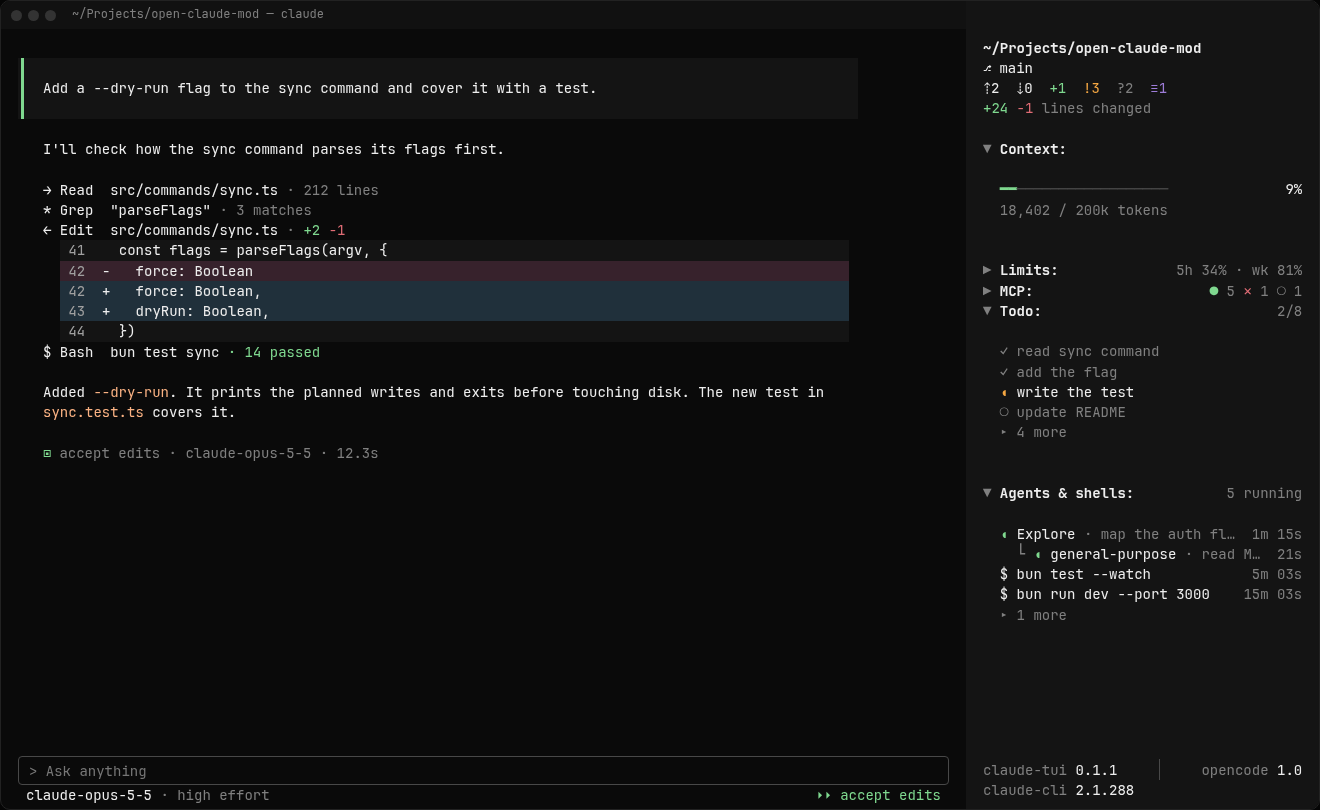
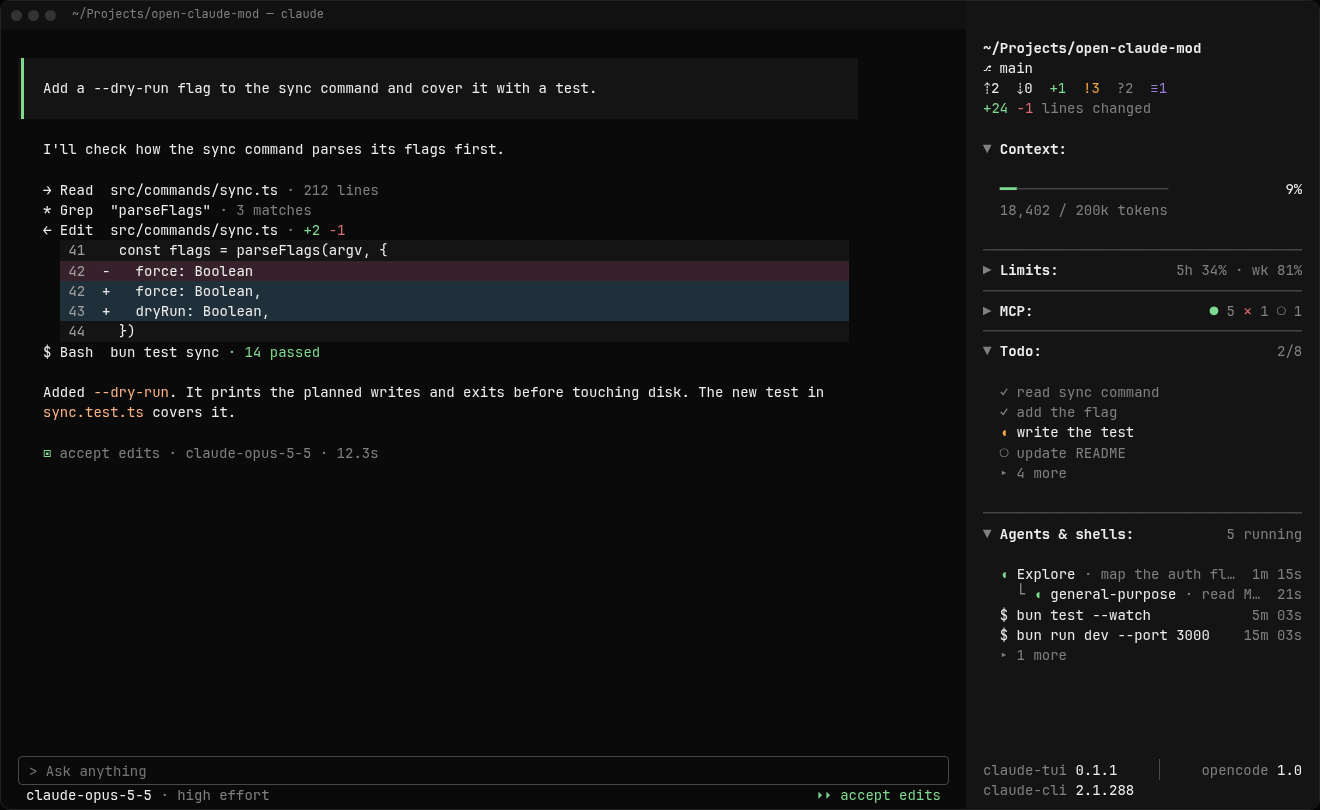
fix(sidebar): rule between sections, 1 blank row on each side
Draw a subtle `─` rule, the body width, between every two Sidebar
sections. An expanded section has 1 blank row under its title and 1
after its body before the rule; a folded title is followed directly by
the rule. A title's scroll stop carries the blank row and rule above it,
so a wheel step still moves one row of text.

Redraw docs/design/sidebar.html and its PNGs, and update MEMORY.md and
the Sidebar layout and scroll live check.

Refs: #134

diff --git a/ctui/tests/sidebar.test.tsx b/ctui/tests/sidebar.test.tsx
@@ -49,9 +49,11 @@ function rows(tree: RenderElement): Row[] {
 }
 
 // The rows as text, with each spacer (an empty Box with a height) as its height:
-// 1 row under an expanded title, 2 after an expanded section (#120).
-const T = 1
-const G = 2
+// 1 row under an expanded title and 1 after an expanded section, before the
+// rule under which the next title sits (#134).
+const B = 1
+// The `─` rule between two sections, the body width at 42 columns.
+const R = '─'.repeat(38)
 function layout(tree: RenderElement): (string | number)[] {
   const root = tree as unknown as { children: ({ props: { height?: number }; children?: unknown[] } | null)[] }
   const all = root.children.filter((child) => child !== null)
@@ -115,7 +117,7 @@ test('header, sections and the footer on the last row', async ($, on) => {
     '⎇ main',
     '',
     '▼ mcp:3',
-    T,
+    B,
     'mcp 1',
     'mcp 2',
     'mcp 3',
@@ -133,21 +135,47 @@ test('a folded section shows its summary; folded sections sit together', async (
     plugins: [list('mcp', 3), list('todo', 2)],
     folded: { mcp: true },
   })
-  expect(layout(tree)).toEqual(['▶\uFE0E mcp:sum 3', '▼ todo:2', T, 'todo 1', 'todo 2', ''])
+  expect(layout(tree)).toEqual(['▶\uFE0E mcp:sum 3', R, '▼ todo:2', B, 'todo 1', 'todo 2', ''])
 })
 
-// #120: 1 row under an expanded title, 2 rows after an expanded section.
+// #134: a rule between every two sections, 1 row under an expanded title and
+// 1 row after an expanded section before the rule.
 const three = [list('mcp', 2), list('todo', 1), { ...list('mcp', 1), id: 'agents' as const, title: 'agents' }]
 
-test('expanded sections space 1 row under the title and 2 rows apart', async ($, on) => {
+test('expanded sections space 1 row under the title and 1 row before the rule', async ($, on) => {
   const { tree } = await draw($, on, { plugins: three })
-  expect(layout(tree)).toEqual(['▼ mcp:2', T, 'mcp 1', 'mcp 2', G, '▼ todo:1', T, 'todo 1', G, '▼ agents:1', T, 'mcp 1', ''])
+  expect(layout(tree)).toEqual(['▼ mcp:2', B, 'mcp 1', 'mcp 2', B, R, '▼ todo:1', B, 'todo 1', B, R, '▼ agents:1', B, 'mcp 1', ''])
 })
 
-test('folded sections take no spacer; an expanded one keeps its 2 rows before a folded one', async ($, on) => {
+test('a folded title is followed by the rule; an expanded one keeps its row before a folded one', async ($, on) => {
   const { tree } = await draw($, on, { plugins: three, folded: { mcp: true, agents: true } })
-  expect(layout(tree)).toEqual(['▶\uFE0E mcp:sum 2', '▼ todo:1', T, 'todo 1', G, '▶\uFE0E agents:sum 1', ''])
+  expect(layout(tree)).toEqual(['▶\uFE0E mcp:sum 2', R, '▼ todo:1', B, 'todo 1', B, R, '▶\uFE0E agents:sum 1', ''])
 })
+
+test('folded titles are parted by one rule each and no blank rows', async ($, on) => {
+  const { tree } = await draw($, on, { plugins: three, folded: { mcp: true, todo: true, agents: true } })
+  expect(layout(tree)).toEqual(['▶\uFE0E mcp:sum 2', R, '▶\uFE0E todo:sum 1', R, '▶\uFE0E agents:sum 1', ''])
+})
+
+test('one section, expanded, has no rule', async ($, on) => {
+  const { tree } = await draw($, on, {})
+  expect(layout(tree).filter((size) => typeof size === 'string' && size.startsWith('─'))).toEqual([])
+})
+
+test('one section, folded, has no rule above or below it', async ($, on) => {
+  const { tree } = await draw($, on, { folded: { mcp: true } })
+  expect(layout(tree)).toEqual(['~/x', '⎇ main', '', '▶\uFE0E mcp:sum 3', '', 'ctui 0.0.0', 'claude-cli 2.1.288'])
+})
+
+for (const [columns, cells] of [
+  [42, 38],
+  [53, 49],
+] as const) {
+  test(`a rule is the body width, ${cells} cells at ${columns} columns`, async ($, on) => {
+    const { tree } = await draw($, on, { plugins: three, folded: { mcp: true }, bodyColumns: columns })
+    expect(layout(tree)[1]).toBe('─'.repeat(cells))
+  })
+}
 
 test('under a selected Theme the root paint covers the spacers', async ($, on) => {
   const { tree } = await draw($, on, { plugins: [list('mcp', 1), list('todo', 1)], background: '#2d353b' })
@@ -158,9 +186,9 @@ test('under a selected Theme the root paint covers the spacers', async ($, on) =
     (child) => child?.props.height !== undefined && !(child as { children?: unknown[] }).children?.length,
   )
   expect(spacers.map((spacer) => spacer?.props)).toEqual([
-    { height: T, flexShrink: 0 },
-    { height: G, flexShrink: 0 },
-    { height: T, flexShrink: 0 },
+    { height: B, flexShrink: 0 },
+    { height: B, flexShrink: 0 },
+    { height: B, flexShrink: 0 },
   ])
 })
 
@@ -172,7 +200,7 @@ test('a section the person has not toggled folds from <id>_folded', async ($, on
 
 test('a long list caps at 4 rows', async ($, on) => {
   const capped = await draw($, on, { plugins: [list('mcp', 6)] })
-  expect(layout(capped.tree)).toEqual(['▼ mcp:6', T, 'mcp 1', 'mcp 2', 'mcp 3', 'mcp 4', '▸ 2 more', ''])
+  expect(layout(capped.tree)).toEqual(['▼ mcp:6', B, 'mcp 1', 'mcp 2', 'mcp 3', 'mcp 4', '▸ 2 more', ''])
 })
 
 test('an expanded list shows every row and show less', async ($, on) => {
@@ -182,7 +210,7 @@ test('an expanded list shows every row and show less', async ($, on) => {
 
 test('a list of 4 has no toggle', async ($, on) => {
   const four = await draw($, on, { plugins: [list('mcp', 4)] })
-  expect(layout(four.tree)).toEqual(['▼ mcp:4', T, 'mcp 1', 'mcp 2', 'mcp 3', 'mcp 4', ''])
+  expect(layout(four.tree)).toEqual(['▼ mcp:4', B, 'mcp 1', 'mcp 2', 'mcp 3', 'mcp 4', ''])
 })
 
 test('sections taller than the free rows scroll in a window', async ($, on) => {
@@ -192,7 +220,7 @@ test('sections taller than the free rows scroll in a window', async ($, on) => {
   // From `mcp 2` (stop 2) the rest fits under `↑ more`.
   expect(top.maxScroll).toBe(2)
   // 4 free rows: `↓ more` leaves 3, which hold the title, its spacer and `mcp 1`.
-  expect(layout(top.tree).slice(3, 8)).toEqual(['▼ mcp:4', T, 'mcp 1', '↓ more', ''])
+  expect(layout(top.tree).slice(3, 8)).toEqual(['▼ mcp:4', B, 'mcp 1', '↓ more', ''])
   expect(rows(top.tree).at(-1)?.text).toBe('claude-cli 2.1.288')
 })
 
@@ -200,6 +228,27 @@ test('scrolled to the end, only ↑ more shows', async ($, on) => {
   const plugins = [header, list('mcp', 4), footer]
   const end = await draw($, on, { plugins, bodyRows: 12, scroll: 99 })
   expect(layout(end.tree).slice(3, 8)).toEqual(['↑ more', 'mcp 2', 'mcp 3', 'mcp 4', ''])
+})
+
+// #130: a title's stop holds the blank row and the rule above it.
+const two = [header, list('mcp', 2), list('todo', 2), footer]
+
+test('a title at the top keeps its blank row and rule under ↑ more', async ($, on) => {
+  // 14 body rows: 2 padding, 2 header, 1 gap, 1 gap, 2 footer leave 6 for 10 section rows.
+  const { tree, maxScroll } = await draw($, on, { plugins: two, bodyRows: 14, scroll: 3 })
+  expect(maxScroll).toBe(4)
+  expect(windowOf(layout(tree))).toEqual(['↑ more', B, R, '▼ todo:2', B, '↓ more'])
+})
+
+test('the window never ends on a rule or the blank row before it', async ($, on) => {
+  // 6 free rows: `↓ more` leaves 5, which hold mcp (4 rows) but not todo's 4.
+  const { tree } = await draw($, on, { plugins: two, bodyRows: 14 })
+  expect(windowOf(layout(tree))).toEqual(['▼ mcp:2', B, 'mcp 1', 'mcp 2', '↓ more'])
+})
+
+test('scrolled to the end past a rule, only ↑ more shows', async ($, on) => {
+  const { tree } = await draw($, on, { plugins: two, bodyRows: 14, scroll: 99 })
+  expect(windowOf(layout(tree))).toEqual(['↑ more', 'todo 1', 'todo 2'])
 })
 
 // #85's busy data: every section expanded, 7 MCP servers, 8 todos, 2 agents.
@@ -231,11 +280,11 @@ test("#85's busy data at 34 body rows: 37 section rows overflow 26 free rows", a
   const top = await busy($, on, 0)
   const window = windowOf(layout(top.tree))
   // `↓ more` leaves 25 rows, which hold Context, Limits and MCP (22 rows) but
-  // not Todo's gap, title and spacer (4 more).
+  // not Todo's blank row, rule, title and spacer (4 more).
   expect(window.slice(-4)).toEqual(['● server 23 tools', '● server 33 tools', '▸ 3 more', '↓ more'])
   expect(height(window)).toBe(23)
-  expect(window.filter((size) => size === T)).toHaveLength(3)
-  expect(window.filter((size) => size === G)).toHaveLength(2)
+  expect(window.filter((size) => size === B)).toHaveLength(5)
+  expect(window.filter((size) => size === R)).toHaveLength(2)
   // One stop per row: from Limits' last row (stop 8) the rest, 25 rows, fills
   // the 25 under `↑ more`; from its row before it is 26.
   expect(top.maxScroll).toBe(8)
@@ -243,7 +292,7 @@ test("#85's busy data at 34 body rows: 37 section rows overflow 26 free rows", a
 
 test("#85's busy data scrolled to the end", async ($, on) => {
   const window = windowOf(layout((await busy($, on, 99)).tree))
-  expect(window.slice(0, 4)).toEqual(['↑ more', 'spend ━────────────────────────   5%', G, '▼ MCP:7/7'])
+  expect(window.slice(0, 5)).toEqual(['↑ more', 'spend ━────────────────────────   5%', B, R, '▼ MCP:7/7'])
   expect(window.at(-1)).toBe('◐ Plan · plan0s')
   expect(height(window)).toBe(26)
 })
@@ -262,16 +311,16 @@ test('scrollWindow marks hidden rows on both sides', () => {
 
 test('scrollWindow counts whole rows; a title stop carries its spacers', () => {
   const more = (text: string) => text
-  // A, its spacer, a; then the gap, B, its spacer, b: 8 rows in 4 stops.
+  // A, its spacer, a; then the blank row, the rule, B, its spacer, b: 8 rows in 4 stops.
   const stops = [
-    { nodes: ['A', 't'], height: 1 + T },
+    { nodes: ['A', 't'], height: 1 + B },
     { nodes: ['a'], height: 1 },
-    { nodes: ['g', 'B', 't'], height: G + 1 + T },
+    { nodes: ['g', '─', 'B', 't'], height: B + 1 + 1 + B },
     { nodes: ['b'], height: 1 },
   ]
-  expect(scrollWindow(stops, 8, 0, more)).toEqual({ rows: ['A', 't', 'a', 'g', 'B', 't', 'b'], maxScroll: 0 })
+  expect(scrollWindow(stops, 8, 0, more)).toEqual({ rows: ['A', 't', 'a', 'g', '─', 'B', 't', 'b'], maxScroll: 0 })
   // 7 free: `↓ more` leaves 6, which hold A and a (3 rows) but not B's 4 more.
   expect(scrollWindow(stops, 7, 0, more)).toEqual({ rows: ['A', 't', 'a', '↓ more'], maxScroll: 1 })
   // From stop 1 the rest (6 rows) fills the 6 under `↑ more` exactly.
-  expect(scrollWindow(stops, 7, 1, more).rows).toEqual(['↑ more', 'a', 'g', 'B', 't', 'b'])
+  expect(scrollWindow(stops, 7, 1, more).rows).toEqual(['↑ more', 'a', 'g', '─', 'B', 't', 'b'])
 })

diff --git a/ctui/hooks/sidebar.tsx b/ctui/hooks/sidebar.tsx
@@ -6,10 +6,9 @@ import type { Config } from './config'
 
 export const CAP = 4
 // Space under an expanded section's title, and after an expanded section
-// before the next title, in whole rows: Claude Code cuts layout down to
-// whole cells (#120).
-const TITLE_GAP = 1
-const SECTION_GAP = 2
+// before the rule, in whole rows: Claude Code cuts layout down to whole
+// cells (#120).
+const GAP = 1
 // A section's fold arrow, one cell wide. `\uFE0E` asks for the text
 // presentation, so no font draws `▶` as an emoji.
 const EXPANDED = '▼'
@@ -81,10 +80,18 @@ export function sidebar(input: SidebarInput): { tree: RenderElement; maxScroll: 
   const rowsOf = (slot: SidebarPlugin['slot']) =>
     plugins.filter((p) => p.slot === slot).flatMap((p) => p.view(data, ui, config[p.id], width, c))
 
-  // One scroll stop per section row. A title carries the gap before it and
-  // the space under it, so each scroll step moves one row.
+  // The `─` rule between two sections, across the body.
+  const rule = (
+    <Box height={1} flexShrink={0}>
+      <Text color={c.faint}>{'─'.repeat(width)}</Text>
+    </Box>
+  )
+
+  // One scroll stop per section row. A title after the first carries the
+  // space after an expanded section and the rule above it, and its own space
+  // under it, so each scroll step moves one row (#130).
   const sections: Stop<RenderElement>[] = []
-  let gap = false
+  let previous: 'none' | 'folded' | 'expanded' = 'none'
   for (const plugin of plugins.filter((p) => p.slot === 'section')) {
     const cfg = config[plugin.id]
     const folded = input.folded[plugin.id] ?? cfg.folded ?? false
@@ -106,11 +113,19 @@ export function sidebar(input: SidebarInput): { tree: RenderElement; maxScroll: 
         />
       </Box>
     )
+    // Each node with its height in rows.
+    const gap: [RenderElement, number] = [spacer(GAP), GAP]
+    const parts: [RenderElement, number][] = [
+      ...(previous === 'expanded' ? [gap] : []),
+      ...(previous === 'none' ? [] : [[rule, 1] satisfies [RenderElement, number]]),
+      [title, 1],
+      ...(folded ? [] : [gap]),
+    ]
     sections.push({
-      nodes: [...(gap ? [spacer(SECTION_GAP)] : []), title, ...(folded ? [] : [spacer(TITLE_GAP)])],
-      height: (gap ? SECTION_GAP : 0) + 1 + (folded ? 0 : TITLE_GAP),
+      nodes: parts.map(([node]) => node),
+      height: parts.reduce((sum, [, rows]) => sum + rows, 0),
     })
-    gap = !folded
+    previous = folded ? 'folded' : 'expanded'
     if (folded) continue
     const body = plugin.view(data, ui, cfg, width - 2, c)
     const expanded = input.expanded[plugin.id] ?? false

diff --git a/docs/design/sidebar.html b/docs/design/sidebar.html
@@ -12,8 +12,9 @@
 
   The grid is 14px JetBrainsMono Nerd Font, the installed font the renders
   were first drawn in: 8.4px columns, 20.25px rows. The Sidebar's spacing is in
-  whole rows, as Claude Code lays it out: 1 row under an expanded title, 2 rows
-  after an expanded section, none after a folded one.
+  whole rows, as Claude Code lays it out: a faint `─` rule across the body
+  between every two sections, 1 row under an expanded title and 1 row after an
+  expanded section before the rule, none after a folded one.
 -->
 <html lang="en">
 <head>
@@ -95,8 +96,7 @@
     display: flex; flex-direction: column;
   }
   .sections { flex: 1; overflow: hidden; }
-  .title-gap { height: var(--row); }
-  .section-gap { height: calc(var(--row) * 2); }
+  .gap { height: var(--row); }
   .indent { padding-left: calc(2 * var(--col)); }
   .more { text-align: right; }
   .rule { position: absolute; left: 176px; margin-top: -0.5px; width: 1px; height: 21px; background: var(--faint); }
@@ -186,18 +186,21 @@
     },
   ]
   const CAP = 4
+  // The `─` rule between two sections, across the body's 38 columns.
+  const RULE = row(span('f', '─'.repeat(38)))
 
   function sections(render) {
     let html = ''
-    let gap = false
+    let previous = 'none'
     for (const section of SECTIONS) {
       const expanded = render.expanded.includes(section.id)
-      if (gap) html += '<div class="section-gap"></div>'
-      gap = expanded
+      if (previous === 'expanded') html += '<div class="gap"></div>'
+      if (previous !== 'none') html += RULE
+      previous = expanded ? 'expanded' : 'folded'
       const right = expanded ? (section.count ?? '') : section.summary
       html += split(`${span('m', expanded ? '▼' : '▶\uFE0E')} <b>${section.title}:</b>`, right)
       if (!expanded) continue
-      html += '<div class="title-gap"></div>'
+      html += '<div class="gap"></div>'
       let body = section.body ? section.body() : section.list
       if (section.list) {
         if (render.lists?.includes(section.id)) body = [...body, row(span('m', '▾ show less'))]

diff --git a/ctui/tests/themes.test.tsx b/ctui/tests/themes.test.tsx
@@ -152,6 +152,22 @@ test('under inherit the Sidebar draws with key names', async ($, on) => {
   expect((await sidebar($)).title).toBe('text')
 })
 
+// #134: the rules between sections.
+const rules = async (drawn: Awaited<ReturnType<typeof pane>>) =>
+  (await drawn.findAll({ type: 'Text', text: '─'.repeat(38) })).map((text) => text.props.color)
+
+test('under inherit the rules between sections draw subtle', async ($, on) => {
+  mock.clock(on)
+  files(on)
+  expect(await rules((await sidebar($)).drawn)).toEqual(Array(4).fill('subtle'))
+})
+
+test("with a Theme selected the rules draw in the Theme's subtle", { options: { theme: 'everforest' } }, async ($, on) => {
+  mock.clock(on)
+  files(on)
+  expect(await rules((await sidebar($)).drawn)).toEqual(Array(4).fill(EVERFOREST.overrides.subtle))
+})
+
 test("with a Theme selected the Sidebar's root paints the Theme's glass", { options: { theme: 'everforest' } }, async ($, on) => {
   mock.clock(on)
   files(on)

diff --git a/ctui/tests/roles.test.tsx b/ctui/tests/roles.test.tsx
@@ -142,10 +142,16 @@ test('the git header: ⎇ muted, counts in their roles, lines changed muted', as
 
 test('bars: the empty part faint ─, the percent main; pending todo ○ faint with muted text', async ($, on) => {
   const { runs: all } = await draw($, on)
-  const empty = all.filter((run) => /^─+$/.test(run.text))
+  // Shorter than a rule between sections, which spans the body.
+  const empty = all.filter((run) => /^─+$/.test(run.text) && run.text.length < 38)
   expect(empty.map((run) => run.color)).toEqual(['subtle', 'subtle'])
   expect(colorOf(all, '○')).toEqual(['subtle', 'subtle'])
   expect(colorOf(all, 'Open the PR')).toEqual(['inactive'])
+})
+
+test('a rule between every two sections draws faint across the body', async ($, on) => {
+  const { runs: all } = await draw($, on)
+  expect(colorOf(all, '─'.repeat(38))).toEqual(Array(4).fill('subtle'))
 })
 
 test('a section header draws its count muted', async ($, on) => {

diff --git a/ctui/tests/sidebar-dock.test.tsx b/ctui/tests/sidebar-dock.test.tsx
@@ -213,8 +213,8 @@ test('a title row lights in accent as one with its fold arrow, with no underline
 })
 
 test('after a wheel tick, a click on a moved title folds that section', async ($) => {
-  // 8 body rows leave 6 for the sections, each title after the first 2.83
-  // rows with its spacers; a tick drops Context.
+  // 8 body rows leave 6 for the sections, each title after the first 4 rows
+  // with its blank rows and rule; a tick drops Context.
   const pane = await $.ui.mount({ ...PANE, props: paneProps('dock', 8) })
   const titles = async () =>
     (await pane.findAll({ type: 'Client' })).map((client) => client.key).filter((key) => key?.startsWith('foldrow-'))

diff --git a/MEMORY.md b/MEMORY.md
@@ -59,9 +59,9 @@ Reason: `claude plugin validate` rejects dynamic `import()`, non-literal event n
 
 Applies when: drawing the Sidebar pane, sizing it, or handling its scroll and fold state.
 
-Guidance: The dock sits beside the transcript and stops above the prompt rows. Claude Code draws its `│` rule (dim, in the theme's `inactive`), a row above the body with the `✕` at its right end, and one row below the body, all on `composerSidebarBackground`; no prop or mod drawing changes them. Draw the body with padding top/bottom 1, left/right 2 and a root Box `height` of `scroll.bodyRows`, read each render: `git` header, sections window, flexible space, `versions` footer on the last row. Request `columns` 42 below 160 terminal columns and 53 from 160. A width the person dragged or keyed the dock to (`dockColumns` in `~/.claude.json`) wins over the request. Terminal width is `e.viewport.columns + bodyColumns + 1` (`viewport.columns` is the transcript's width); on a change, re-call `$.ui.open({ id, columns })` from `$.clock.after(0, …)`, never from the render itself. A click anywhere on a section's title row, arrow, title, blank middle or count, folds or unfolds it. Space the sections with empty Box spacers in whole rows: `height` 1 under an expanded title, 2 after an expanded section before the next title, none after a folded one; header, footer, their gaps and the padding take whole rows too. Cap each long list at 4 rows plus `▸ N more` / `▾ show less`. In a row with a value at the right, give the row `columnGap: 1` and wrap the value in a `Box` with `flexShrink: 0`: only the label truncates. Scroll the sections yourself: slice rows to the free height (each row `height 1`, `flexShrink 0`; `overflow:"hidden"` shrinks rows instead of clipping), one scroll stop per row, a title's stop carrying the gap before it and the row under it, with `scrollWindow()` summing the stops' heights in whole rows; draw `↑ more` / `↓ more`, and answer `ui.scroll` for the pane with `{}` without `next`. Keep folds, expanded lists and the offset in `$.state`; a new session starts from `<id>_folded`.
+Guidance: The dock sits beside the transcript and stops above the prompt rows. Claude Code draws its `│` rule (dim, in the theme's `inactive`), a row above the body with the `✕` at its right end, and one row below the body, all on `composerSidebarBackground`; no prop or mod drawing changes them. Draw the body with padding top/bottom 1, left/right 2 and a root Box `height` of `scroll.bodyRows`, read each render: `git` header, sections window, flexible space, `versions` footer on the last row. Request `columns` 42 below 160 terminal columns and 53 from 160. A width the person dragged or keyed the dock to (`dockColumns` in `~/.claude.json`) wins over the request. Terminal width is `e.viewport.columns + bodyColumns + 1` (`viewport.columns` is the transcript's width); on a change, re-call `$.ui.open({ id, columns })` from `$.clock.after(0, …)`, never from the render itself. A click anywhere on a section's title row, arrow, title, blank middle or count, folds or unfolds it. Part every two sections with a `─` rule in `faint` (`subtle`), exactly the body width (`bodyColumns - 4`: 38 at 42, 49 at 53); none above the first section or below the last. Space the sections with empty Box spacers in whole rows: `height` 1 under an expanded title and 1 after an expanded section before the rule; a folded title is followed directly by the rule. Header, footer, their gaps and the padding take whole rows too. Cap each long list at 4 rows plus `▸ N more` / `▾ show less`. In a row with a value at the right, give the row `columnGap: 1` and wrap the value in a `Box` with `flexShrink: 0`: only the label truncates. Scroll the sections yourself: slice rows to the free height (each row `height 1`, `flexShrink 0`; `overflow:"hidden"` shrinks rows instead of clipping), one scroll stop per body row, a title's stop holding [the blank row after an expanded section] + the rule + the title + [its blank row when expanded], the same height at every position, with `scrollWindow()` summing the stops' heights in whole rows. A stop shows only whole, so a title at the top keeps its blank row and rule under `↑ more` and the window never ends on a rule; draw `↑ more` / `↓ more`, and answer `ui.scroll` for the pane with `{}` without `next`. Keep folds, expanded lists and the offset in `$.state`; a new session starts from `<id>_folded`.
 
-Reason: #8 verified the chrome, the viewport width and the overflow shrink live on 2.1.288. The `✕` moved from the body's top-right cell to its own row on 2.1.291 (#79). #87 rechecked the chrome, the 42/53 widths (150 and 170 columns) and `bodyRows` (34 in a 40-row terminal) live on 2.1.292. The human chose to accept the chrome, opencode's padding, the 42/53 width, render 2's caps, and the mod-owned scroll after trying it live. Claude Code cuts every laid-out box down to whole cells (`top|0`, `height|0`, checked on 2.1.292), so a fractional spacer draws 0 or 1–2 rows and the rows after it shift; the Sidebar's `Box` spacing comes in whole rows. After a live spike in #120 the human chose 1 row under expanded titles and 2 between sections, drawn as empty Boxes of whole-row height rather than a transparent `Image`, which needs a graphics protocol and tmux passthrough.
+Reason: #8 verified the chrome, the viewport width and the overflow shrink live on 2.1.288. The `✕` moved from the body's top-right cell to its own row on 2.1.291 (#79). #87 rechecked the chrome, the 42/53 widths (150 and 170 columns) and `bodyRows` (34 in a 40-row terminal) live on 2.1.292. The human chose to accept the chrome, opencode's padding, the 42/53 width, render 2's caps, and the mod-owned scroll after trying it live. Claude Code cuts every laid-out box down to whole cells (`top|0`, `height|0`, checked on 2.1.292), so a fractional spacer draws 0 or 1–2 rows and the rows after it shift; the Sidebar's `Box` spacing comes in whole rows. Spacing is drawn as empty Boxes of whole-row height rather than a transparent `Image`, which needs a graphics protocol and tmux passthrough (#120). The human chose the rules and spacing from the renders in #127, and the rule riding the next title's scroll stop in #130, so a wheel step always moves one row of text.
 
 ## The Sidebar shows only when docked, and the person can't close it
 

diff --git a/docs/testing/live-checks.md b/docs/testing/live-checks.md
@@ -33,7 +33,7 @@ Fullscreen means the `"tui": "fullscreen"` setting or `CLAUDE_CODE_NO_FLICKER=1`
 | Detached HEAD (`git checkout --detach`) | Wait 5 s | Row 2 reads `⎇ <7-char sha>`. |
 | A directory outside any repo | Start a session there | The header is the path alone. |
 | Sidebar docked | Look at the body and its frame | Padding: 1 row above and below, 2 columns left and right. Claude Code draws the `│` rule, the `✕` and the row under the body. The footer is one row on the body's last row: `ctui <plugin.json version> │ claude-cli <pinned version>`, names in `inactive`, versions in `text`, the `│` in `subtle`, with no update icon. It fits at 42 and at 53 columns. Each expanded section header reads `▼` in `inactive`, then its title and a `:` in bold `text`. A folded header's `▶` draws as a text triangle one cell wide, not an emoji, in Alacritty and in Ghostty. |
-| Sidebar docked, every section expanded, at 42 columns and again at 53 (160+ terminal columns) | Look at the sections at rest; fold MCP and Agents & shells; then expand them and scroll the sections down and back | At rest: 1 row of space under each expanded section title before its first row, and 2 rows after each expanded section before the next title. A folded title has no space under it and none after it, and the next title follows directly. While scrolled, the same spacing holds inside the window, `↑ more` / `↓ more` stay one row each, and the header, its gap, the footer and the padding don't move. |
+| Sidebar docked, every section expanded, at 42 columns and again at 53 (160+ terminal columns) | Look at the sections at rest; fold MCP and Agents & shells; then expand them and scroll the sections down and back | At rest: a `─` rule in `subtle` across the whole body width between every two sections, none above the first or below the last. 1 row of space under each expanded section title before its first row, and 1 row after each expanded section before the rule. A folded title has no space under it, and the rule follows directly. While scrolled, a title at the window's top keeps its blank row and rule under `↑ more`, the window never ends on a rule or the blank row before it, `↑ more` / `↓ more` stay one row each, and the header, its gap, the footer and the padding don't move. |
 | Sidebar docked, `inherit`, a custom theme in `~/.claude/themes/` picked in `/theme` | Change that file's `text`, `inactive` and `subtle` to new colors and save it (or switch Omarchy themes, which rewrites `~/.claude/themes/omarchy.json`); then pick the built-in `dark` theme in `/theme`, then `light` | Within a second each time, every Sidebar row recolors, the main text included: path, branch, section titles and versions follow `text`. No row keeps the terminal's own foreground. |
 | Sidebar docked, `/ctui:theme everforest`, `/theme` on built-in `dark` | Look at the body; scroll it, fold a section, widen the terminal past 160 columns and back, and rewrite the active `/theme` file or pick another `/theme` | Every body cell, padding included, shows one flat `#363d41` through each step, with no stripes between rows. The `│` rule column, the `✕` row and the row below keep the `dark` dock color, so a frame shows. |
 | The previous row | Pick `Everforest` in `/theme` too | The frame turns `#363d41` and goes away against the body. |
